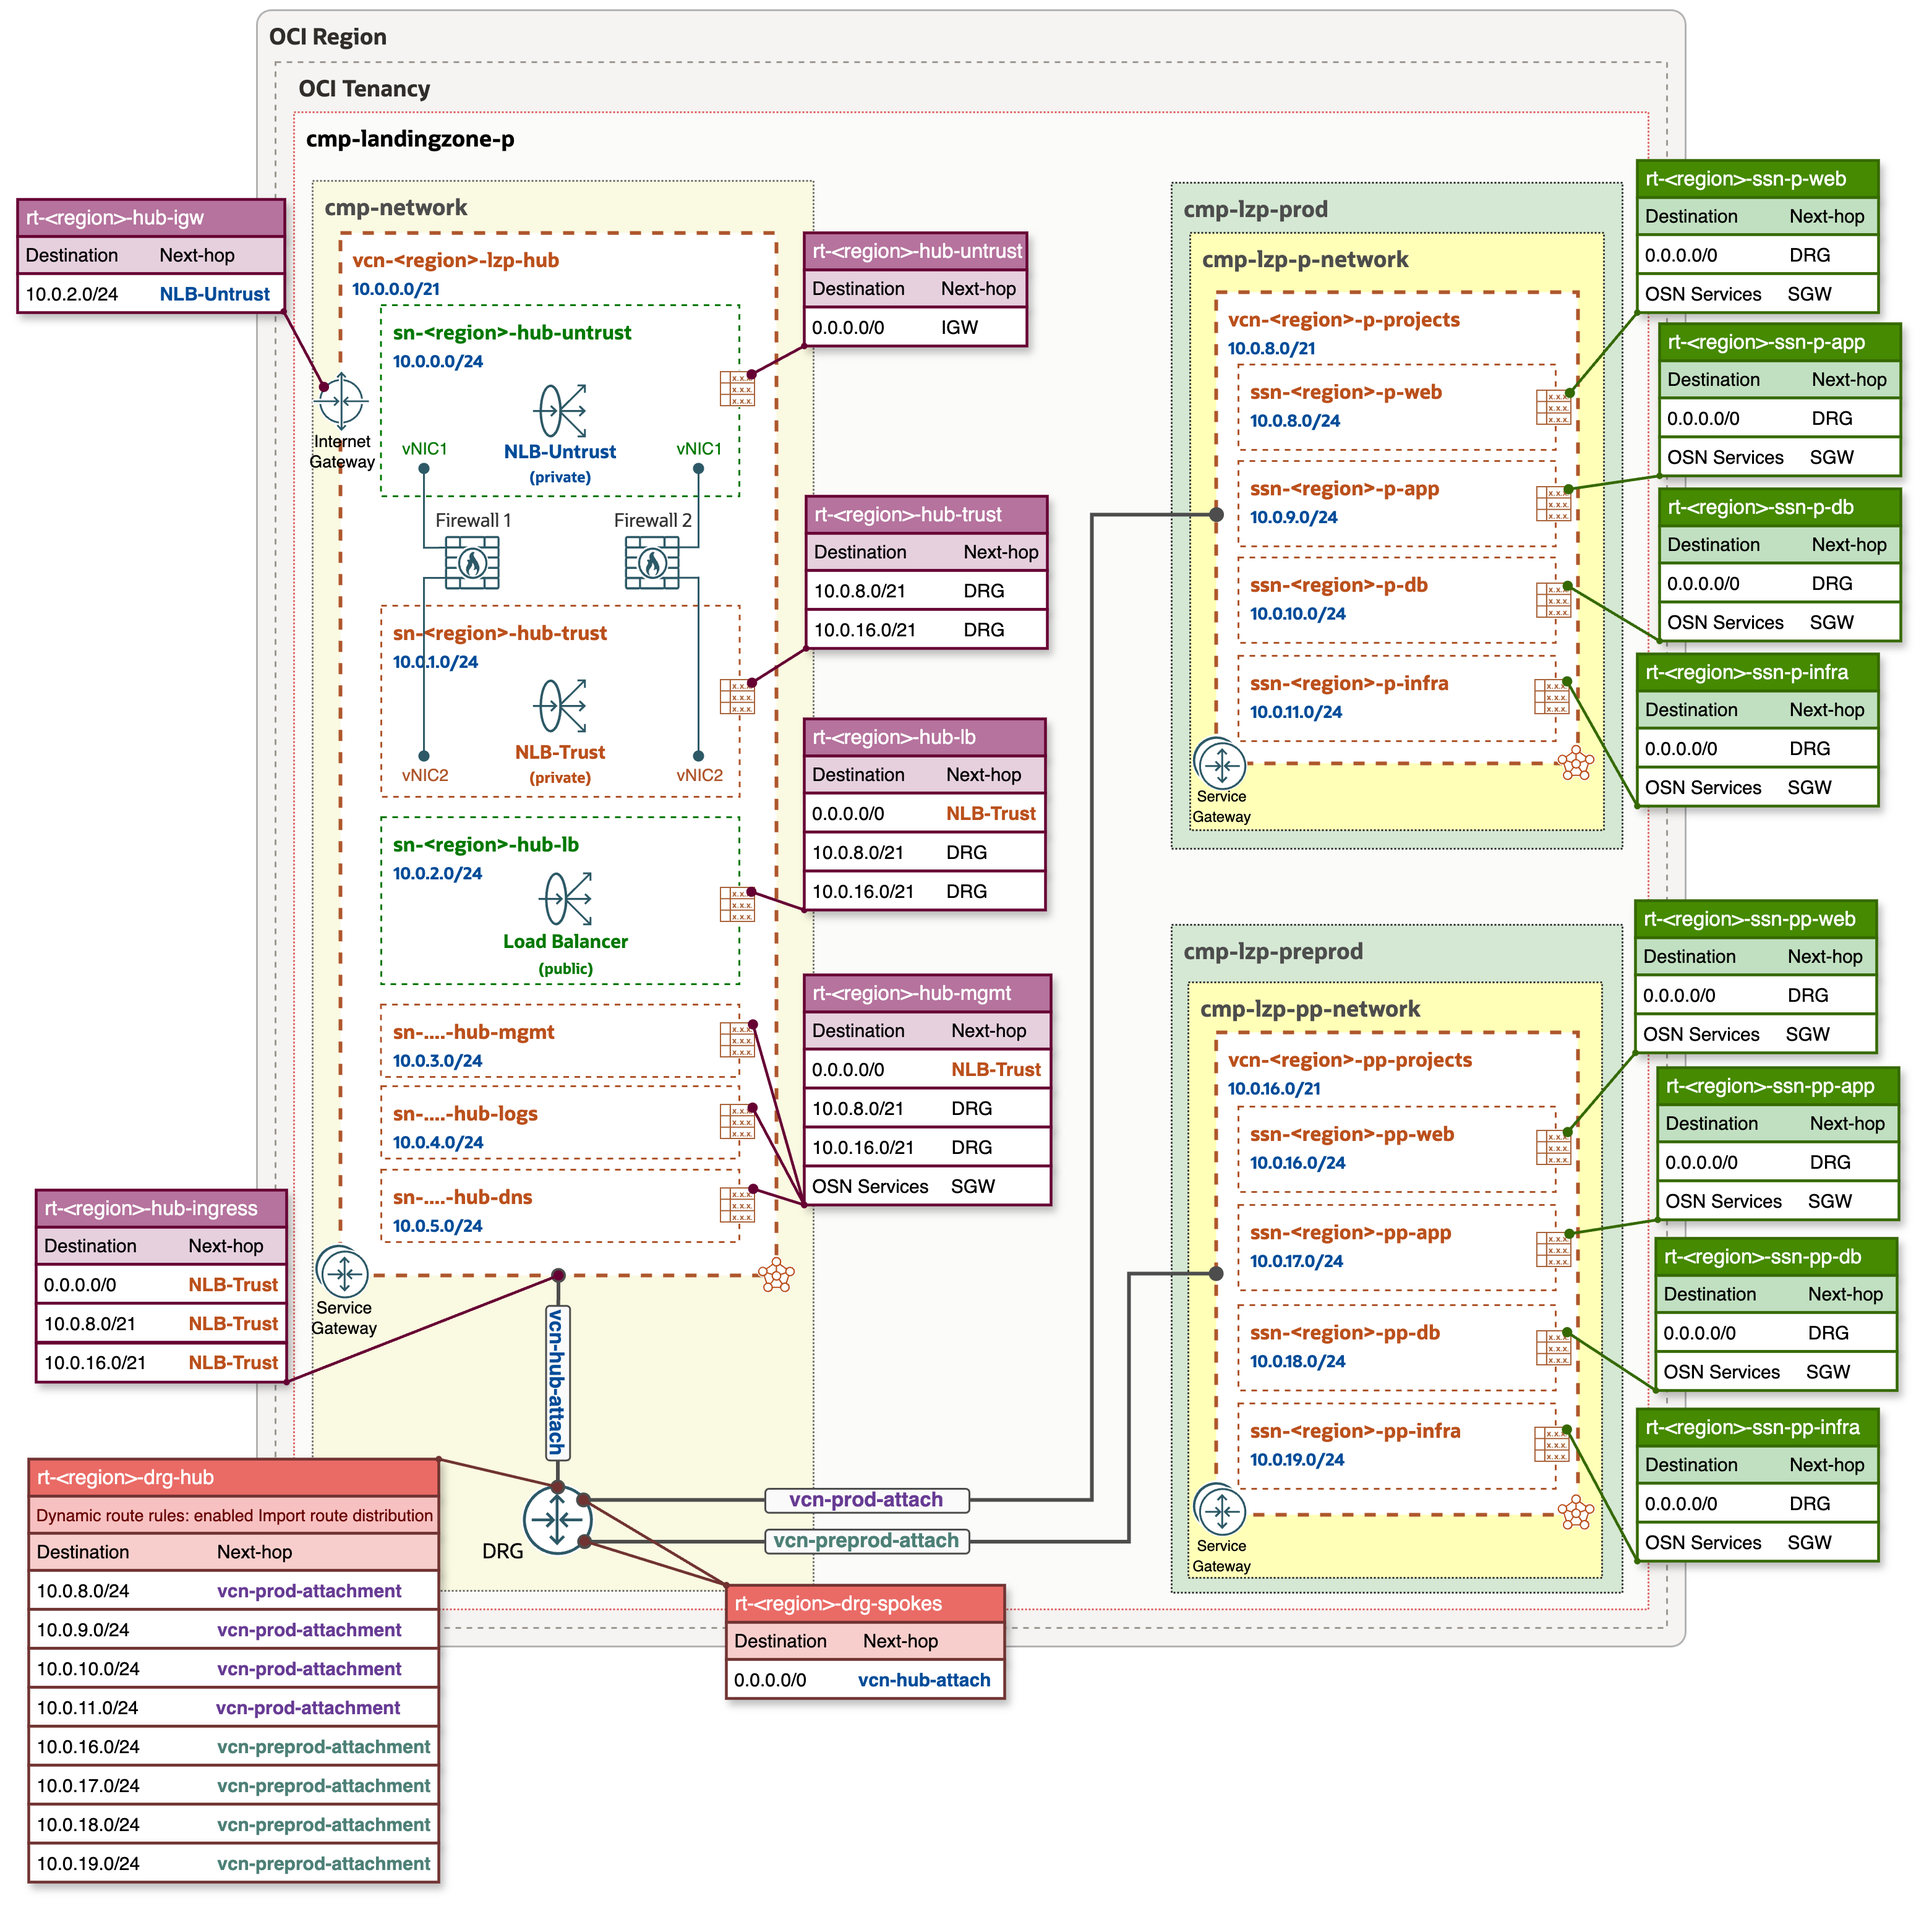
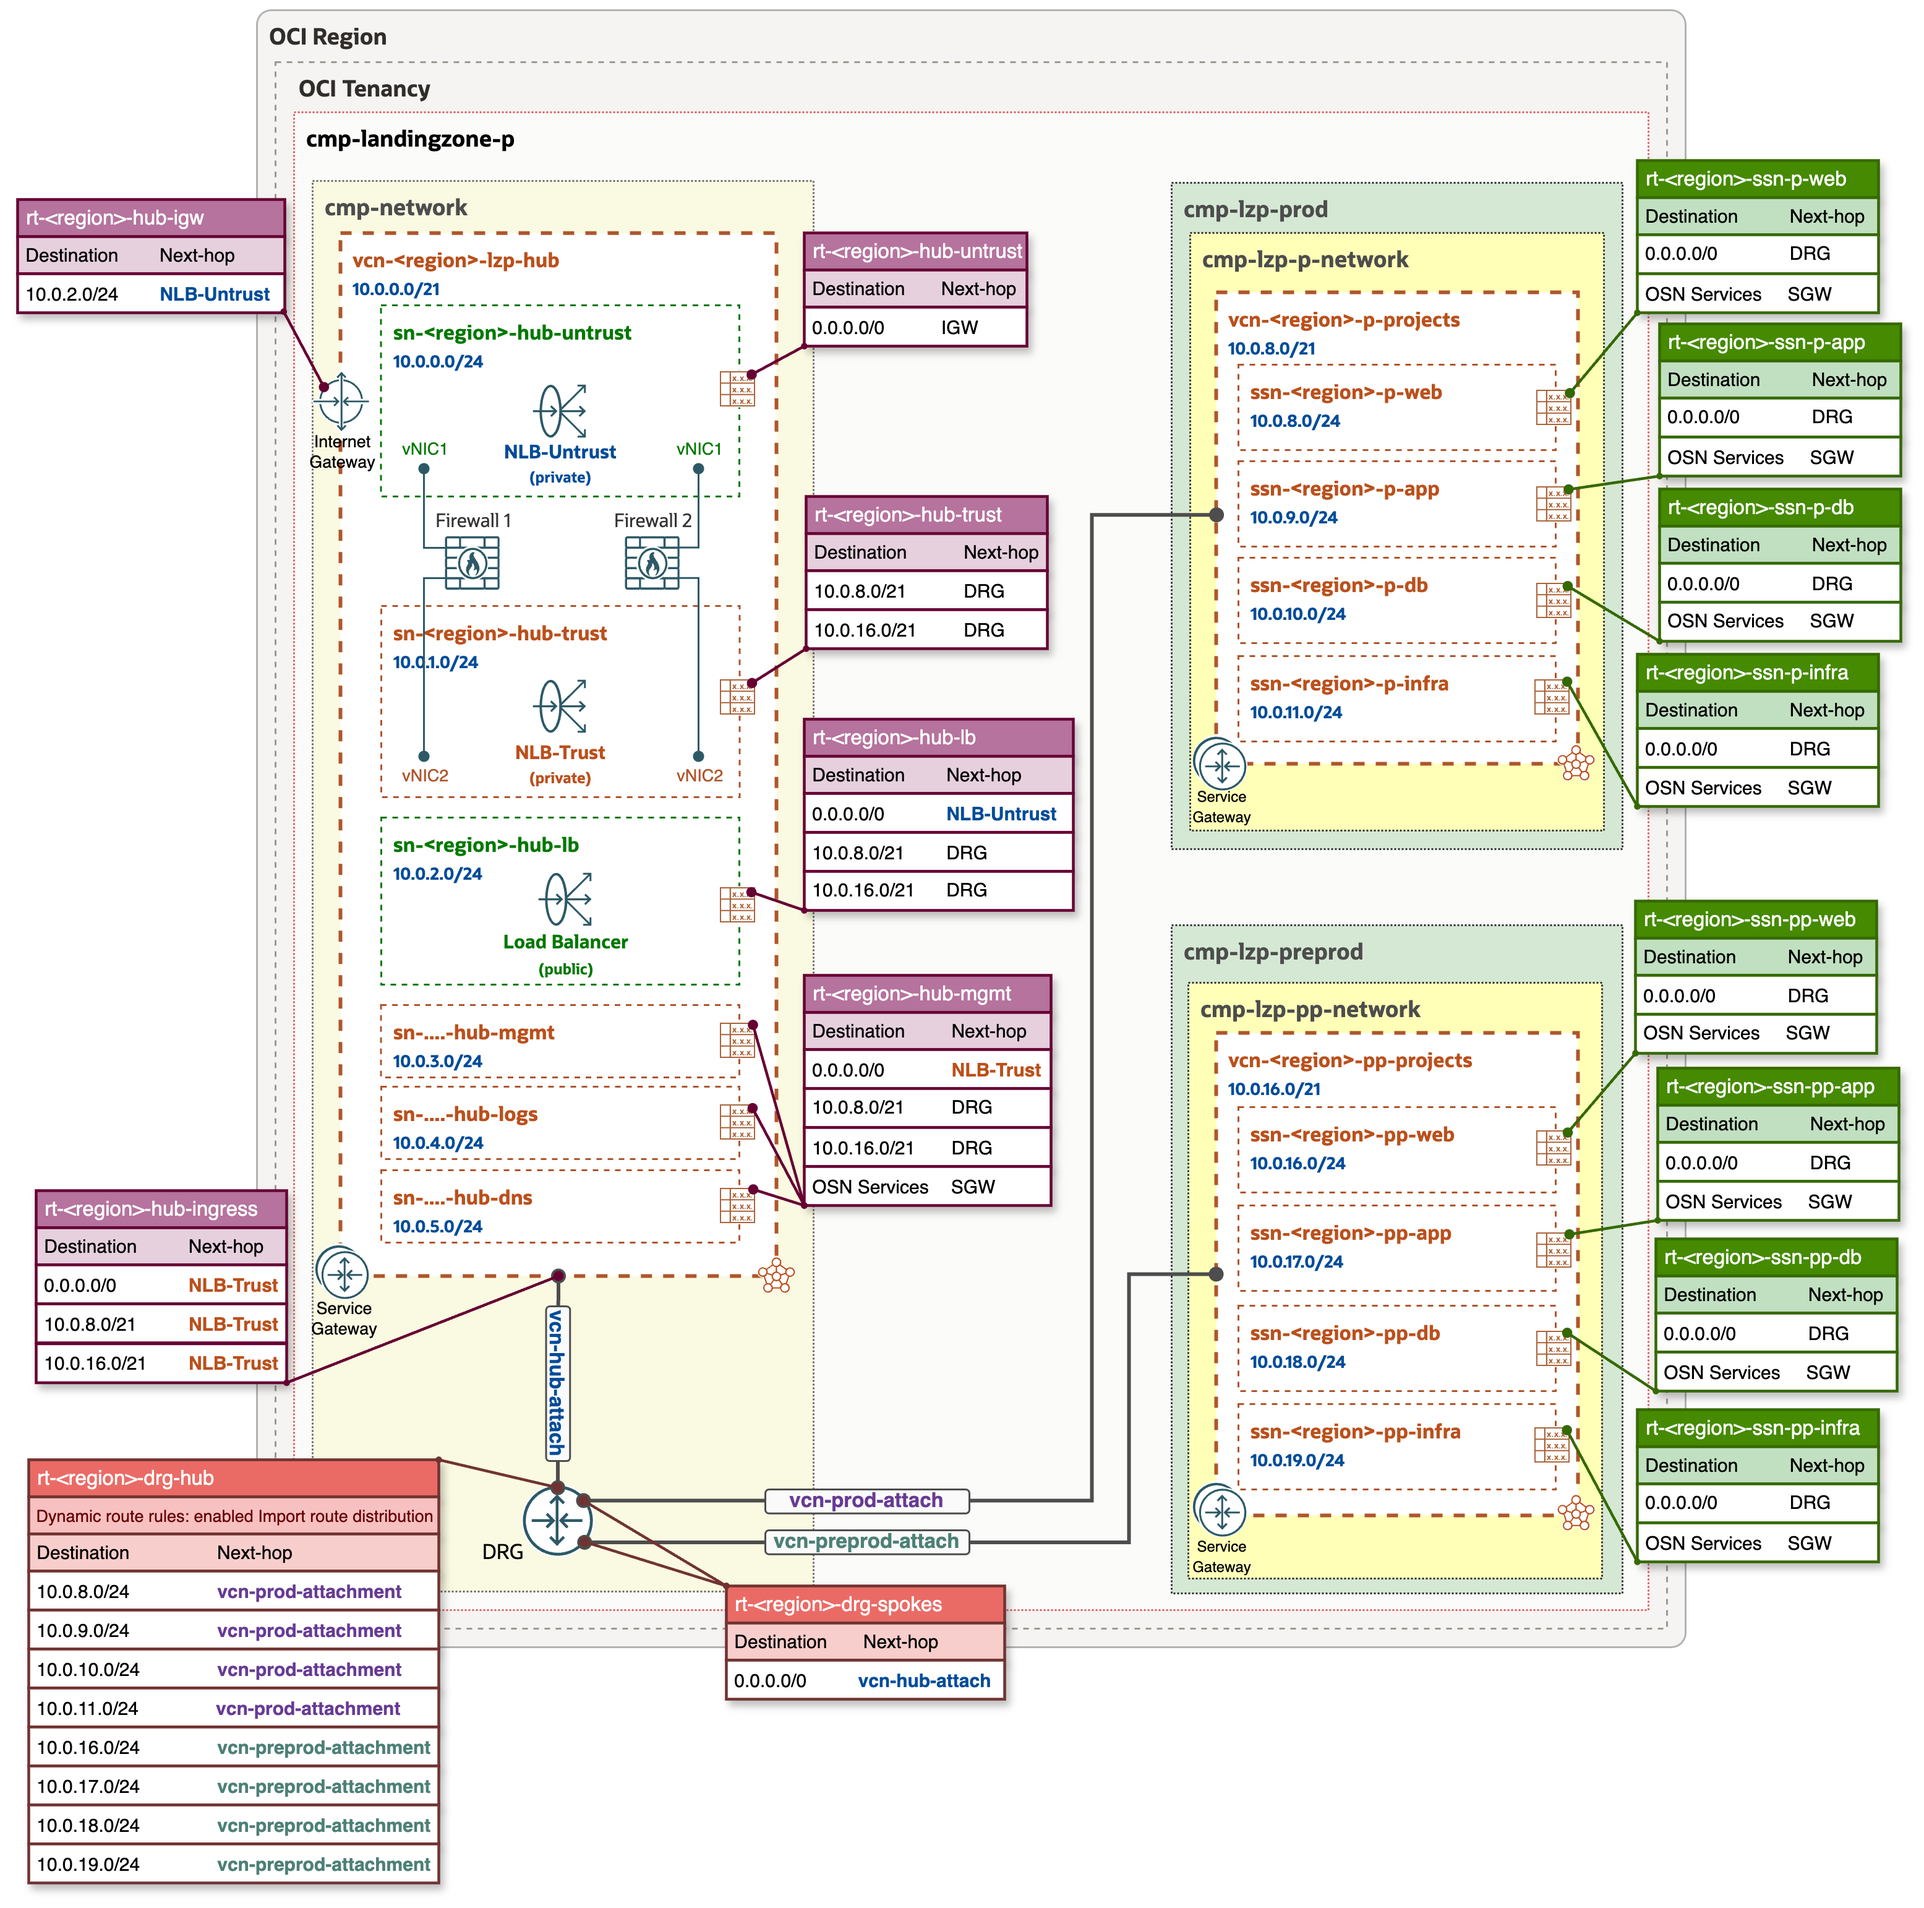
fix: inbound routing

diff --git a/addons/oci-hub-models/hub_c/hub-c-packet_flow.md b/addons/oci-hub-models/hub_c/hub-c-packet_flow.md
@@ -33,12 +33,12 @@ In this architecture, each firewall appliance has two virtual network interfaces
 
 The firewalls have been configured with the following static route rules:
 
-| Network | Description | Gateway | Description |
-| --- | --- | --- | --- |
-| 0.0.0.0/0 |     | 10.0.0.1 | Default Gateway of Untrust subnet |
-| 10.0.2.0/24 | CIDR of Load Balancer's subnet | 10.0.1.1 | Default Gateway of Trust subnet |
-| 192.168.10.0/24 | Spoke A | 10.0.1.1 | Default Gateway of Trust subnet |
-| 192.168.20.0/24 | Spoke B | 10.0.1.1 | Default Gateway of Trust subnet |
+| Network | Description | Gateway | Description | Interface |
+| --- | --- | --- | --- | --- |
+| 0.0.0.0/0 | To the Internet   | 10.0.0.1 | Default Gateway of Untrust subnet | vNIC 1 |
+| 10.0.2.0/24 | CIDR of LBaaS subnet | 10.0.0.1 | Default Gateway of Trust subnet | vNIC 1 |
+| 192.168.10.0/24 | CIDR of VCN Spoke A | 10.0.1.1 | Default Gateway of Trust subnet | vNIC 2 |
+| 192.168.20.0/24 | CIDR of VCN Spoke B | 10.0.1.1 | Default Gateway of Trust subnet | vNIC 2 |
 
 *Table 1: 3rd Party Firewall Route Table*
 
@@ -70,7 +70,7 @@ For more information on [OCI Network Load Balancer and Symmetric hashing](https:
 
 <img src="https://github.com/oracle-quickstart/terraform-oci-open-lz/blob/content/oci-hub-models/hub_c/hub_c_inbound.gif" width="600" />
 
-A user from the Internet attempts to access *a.example.com*, which is hosted on **VM-A** behind a Public Load Balancer. Upon DNS resolution, the user's request targets the Load Balancer's public IP address. The packet then enters the Hub VCN via Internet Gateway, which has an associated VCN route table **RT: vcn-hub-igw** (Gateway Ingress Routing). The route rule defined in this VCN route table forces the packet to go through a private IP address of the **NLB-Untrust** network load balancer. **NLB-Untrust** selects one of the backend Firewalls and uses symmetric hashing to calculate the same hash for packets in both, forward and return directions. After control and inspection the firewall routes the packet to the public load balancer, based on its internal static routes ([*Table 1*](#Third-Party-Network-Firewall-configuration)) and VCN implicit local route. The Load Balancer then attempts to forward the packet to the appropriate backend VM (in this case to **VM-A**), based on its routing policy rules.
+A user from the Internet attempts to access *a.example.com*, which is hosted on **VM-A** behind a Public Load Balancer. Upon DNS resolution, the user's request targets the Load Balancer's public IP address. The packet then enters the Hub VCN via Internet Gateway, which has an associated VCN route table **RT: vcn-hub-igw** (Gateway Ingress Routing). The route rule defined in this VCN route table forces the packet to go through a private IP address of the **NLB-Untrust** network load balancer. **NLB-Untrust** selects one of the backend Firewalls and uses symmetric hashing to calculate the same hash for packets in both, forward and return directions. After control and inspection, the firewall routes the packet via vNIC1 to the public Load Balancer, based on its internal static routes ([*Table 1*](#Third-Party-Network-Firewall-configuration)) and VCN implicit local route. The Load Balancer then attempts to forward the packet to the appropriate backend VM, in this case to **VM-A**, based on its routing policy rules.
 
 &nbsp; 
 
@@ -80,7 +80,7 @@ A user from the Internet attempts to access *a.example.com*, which is hosted on 
   
 <img src="https://github.com/oracle-quickstart/terraform-oci-open-lz/blob/content/oci-hub-models/hub_c/hub_c_outbound.gif" width="600" />
 
-**VM-A** initiates a communication to the Internet. The packet traverses through the Dynamic Routing Gateway (DRG) and is forced by the VCN route table - **RT: vcn-hub-ingress** to choose as the next-hop **NLB-Trust**. Then it selects one of the backend firewalls and uses symmetric hashing to calculate the same hash for packets in both, forward and return directions. After inpection, firewall does a NAT and routes the packet via vNIC1 to the Internet Gateway, based on its internal static routes ([*Table 1*](#Third-Party-Network-Firewall-configuration)) and VCN route table - **RT: vcn-hub-subnet-untrust**.
+**VM-A** initiates a communication to the Internet. The packet traverses through the Dynamic Routing Gateway (DRG) and is forced by the VCN route table - **RT: vcn-hub-ingress** to choose as the next-hop **NLB-Trust**. Then it selects one of the backend firewalls and uses symmetric hashing to calculate the same hash for packets in both, forward and return directions. After inspection, firewall does a NAT and routes the packet via vNIC1 to the Internet Gateway, based on its internal static routes ([*Table 1*](#Third-Party-Network-Firewall-configuration)) and VCN route table - **RT: vcn-hub-subnet-untrust**.
 
 &nbsp; 
 
@@ -90,7 +90,7 @@ A user from the Internet attempts to access *a.example.com*, which is hosted on 
 
 <img src="https://github.com/oracle-quickstart/terraform-oci-open-lz/blob/content/oci-hub-models/hub_c/hub_c_east_west.gif" width="600" />
 
-**VM-A** initiates a communication with **VM-B**. The packet goes through the Dynamic Routing Gateway (DRG) and and is forced by the VCN route table - **RT: vcn-hub-ingress** to choose as the next-hop **NLB-Trust**. Then it selects one of the backend firewalls and uses symmetric hashing to calculate the same hash for packets in both, forward and return directions. Firewall ispects the packet and routes it back to the DRG, based on its internal static routes ([*Table 1*](#Third-Party-Network-Firewall-configuration)) and VCN route table - **RT: vcn-hub-subnet-trust**, which is assosiated with **subnet-hub-trust** subnet. The response packet follows a similar flow to get back to the **VM-A**.
+**VM-A** initiates a communication with **VM-B**. The packet goes through the Dynamic Routing Gateway (DRG) and and is forced by the VCN route table - **RT: vcn-hub-ingress** to choose as the next-hop **NLB-Trust**. Then it selects one of the backend firewalls and uses symmetric hashing to calculate the same hash for packets in both, forward and return directions. The firewall inspects the packet and routes it back to the DRG, based on its internal static routes ([*Table 1*](#Third-Party-Network-Firewall-configuration)) and VCN route table - **RT: vcn-hub-subnet-trust**, which is associated with **subnet-hub-trust** subnet. The response packet follows a similar flow to get back to the **VM-A**.
 
 &nbsp; 
 
